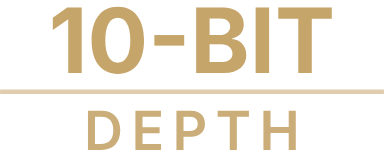
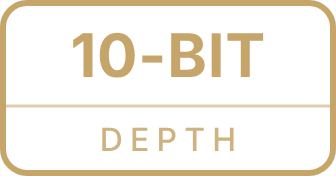
Restore framed badge design
Claude-Session: https://claude.ai/code/session_01YC6KB5EZ8ovPvHMJbFMYdf

diff --git a/README.md b/README.md
@@ -1,7 +1,7 @@
 # aiostreams-badges
 
 Image badges for AIOStreams version lists. Gold = optimal, grey = acceptable.
-Borderless transparent PNG (6x) + SVG source, framed by the app border. Typeface: Inter.
+Transparent PNG (4x) + SVG source, own border. Typeface: Inter.
 
 ## Files
 
